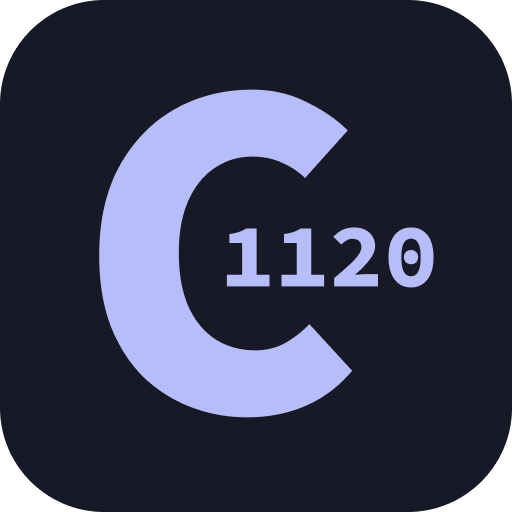
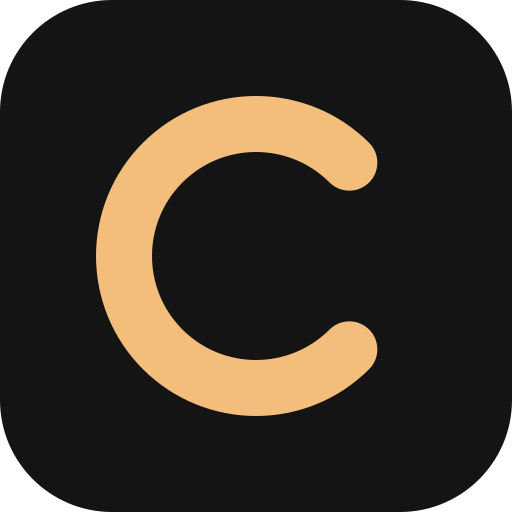
add new favion matching the theme

diff --git a/app/layout.tsx b/app/layout.tsx
@@ -21,7 +21,13 @@ const jetbrainsMono = JetBrains_Mono({
 export const metadata: Metadata = {
   title: "Chamal1120",
   description: "Chamal's personal site",
-  icons: [{ rel: "icon", url: "/favicon.ico" }],
+  icons: {
+    icon: [
+      { url: "/favicon.ico", sizes: "any" },
+      { url: "/favicon.svg", type: "image/svg+xml" },
+    ],
+    apple: [{ url: "/apple-touch-icon.png", sizes: "180x180" }],
+  },
 };
 
 const themeScript = `
